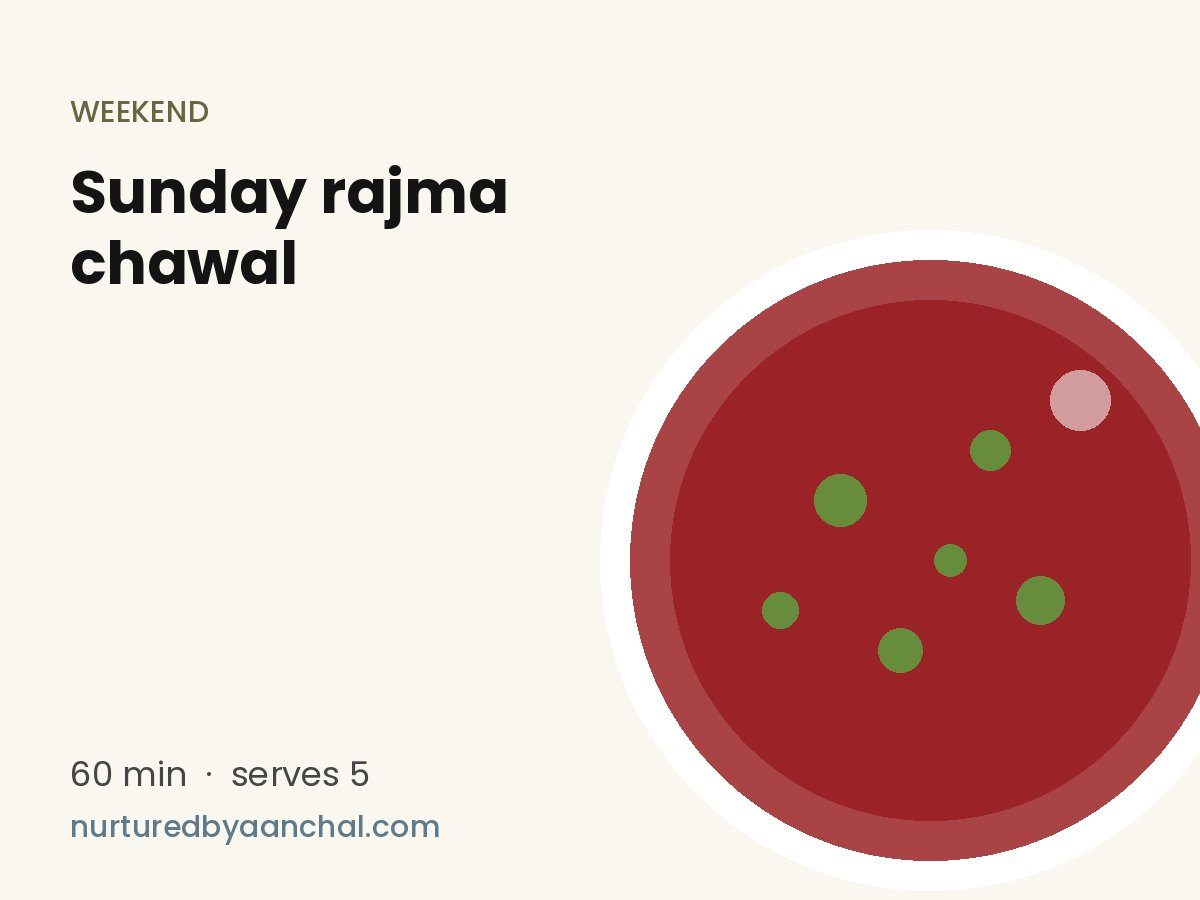
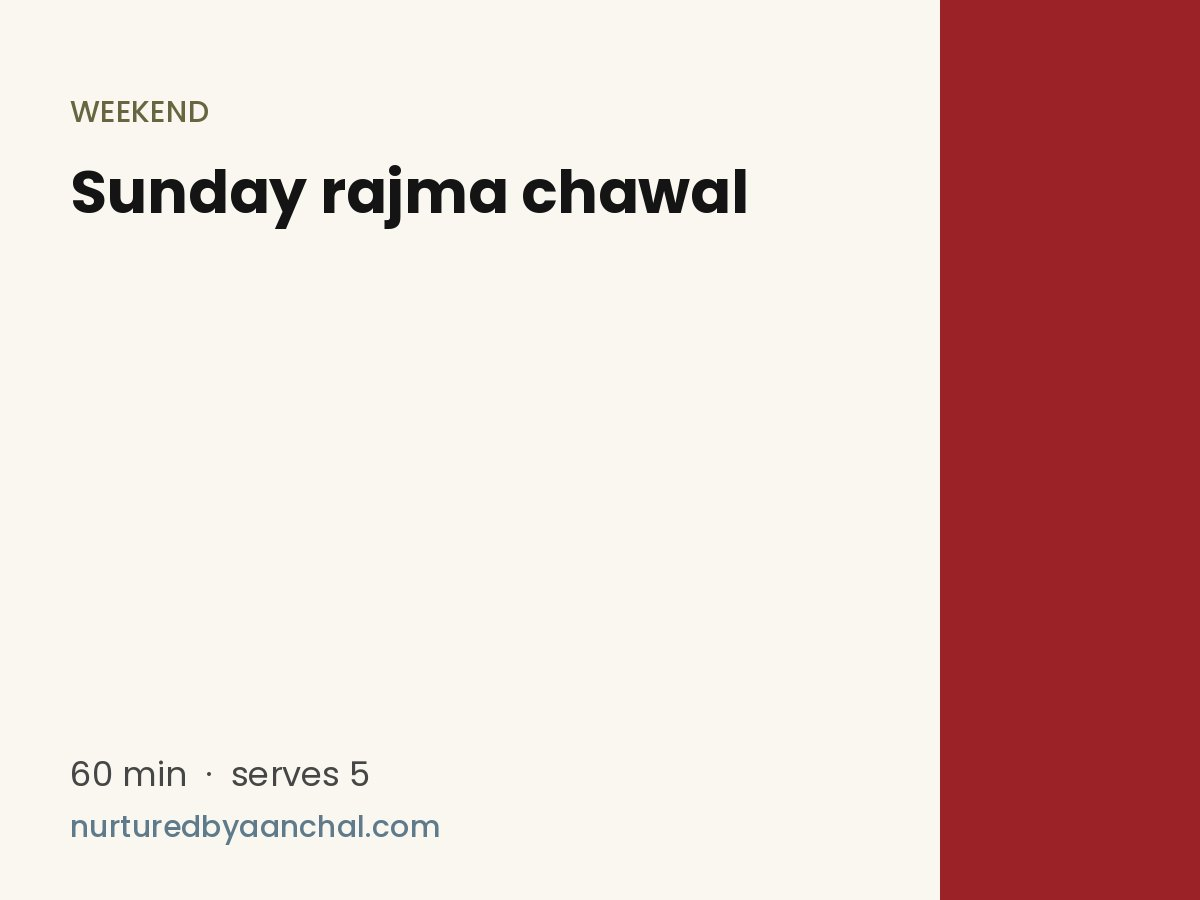
Remove stock photos that showed the wrong dish (paneer bhurji, aloo gobi, besan chilla, rajma); plain title cards until real photos exist
Claude-Session: https://claude.ai/code/session_01GpAf4TjqHsxVsZFDK4pqMq

diff --git a/recipes/index.html b/recipes/index.html
@@ -44,7 +44,7 @@
 <div class="page-title"><div class="wrap"><h1>Recipes</h1><p>The South Asian dinners and toddler meals we actually make after work.</p></div></div>
 <section><div class="wrap">
     <div class="r-intro"><img style="object-position:50% 18%" src="/images/album/lunch.jpg" alt="Aanchal smiling at lunch" loading="lazy"><p>Food in our house is simple, quick and mostly South Asian. These are the dishes I lean on during a busy work week, plus a few my toddler actually eats. When we eat out, it's usually dosa.</p></div>
-    <nav class="chips" aria-label="Recipe categories"><a class="chip" href="#weeknight-dinners">Weeknight dinners</a><a class="chip" href="#toddler-meals">Toddler meals</a><a class="chip" href="#lunchbox">Lunchbox</a><a class="chip" href="#breakfast">Breakfast</a><a class="chip" href="#weekend">Weekend</a></nav><h2 class="r-cat" id="weeknight-dinners">Weeknight dinners</h2><div class="r-grid"><a class="r-card" href="/recipes/weeknight-moong-dal-tadka/"><img src="https://images.unsplash.com/photo-1755090154817-58d9d36ec988?w=1200&h=900&fit=crop&crop=entropy&q=80&auto=format" alt="30-minute moong dal tadka" loading="lazy"><span class="r-meta">30 min · serves 4</span><h3>30-minute moong dal tadka</h3></a><a class="r-card" href="/recipes/easy-chana-masala-instant-pot/"><img src="https://images.unsplash.com/photo-1736680056470-948527554276?w=1200&h=900&fit=crop&crop=entropy&q=80&auto=format" alt="Easy chana masala (stovetop or Instant Pot)" loading="lazy"><span class="r-meta">40 min · serves 4</span><h3>Easy chana masala (stovetop or Instant Pot)</h3></a><a class="r-card" href="/recipes/dry-aloo-gobi-sabzi/"><img src="https://images.unsplash.com/photo-1652545297020-f5e8ad779eb4?w=1200&h=900&fit=crop&crop=entropy&q=80&auto=format" alt="Dry aloo gobi sabzi" loading="lazy"><span class="r-meta">35 min · serves 4</span><h3>Dry aloo gobi sabzi</h3></a></div><h2 class="r-cat" id="toddler-meals">Toddler meals</h2><div class="r-grid"><a class="r-card" href="/recipes/one-pot-vegetable-khichdi-toddler/"><img src="https://images.unsplash.com/photo-1630409351211-d62ab2d24da4?w=1200&h=900&fit=crop&crop=entropy&q=80&auto=format" alt="One-pot vegetable khichdi (toddler-approved)" loading="lazy"><span class="r-meta">35 min · serves 4</span><h3>One-pot vegetable khichdi (toddler-approved)</h3></a><a class="r-card" href="/recipes/mini-besan-chilla-toddler-finger-food/"><img src="https://images.unsplash.com/photo-1533621975016-7c373cdf0a3c?w=1200&h=900&fit=crop&crop=entropy&q=80&auto=format" alt="Mini besan chillas (toddler finger food)" loading="lazy"><span class="r-meta">20 min · serves 3</span><h3>Mini besan chillas (toddler finger food)</h3></a></div><h2 class="r-cat" id="lunchbox">Lunchbox</h2><div class="r-grid"><a class="r-card" href="/recipes/paneer-bhurji-lunchbox-wrap/"><img src="https://images.unsplash.com/photo-1736239093375-34f0a2f33c7d?w=1200&h=900&fit=crop&crop=entropy&q=80&auto=format" alt="Paneer bhurji lunchbox wraps" loading="lazy"><span class="r-meta">15 min · serves 3</span><h3>Paneer bhurji lunchbox wraps</h3></a><a class="r-card" href="/recipes/south-indian-lemon-rice-lunchbox/"><img src="https://images.unsplash.com/photo-1733414717545-1d7031befbcf?w=1200&h=900&fit=crop&crop=entropy&q=80&auto=format" alt="South Indian lemon rice (lunchbox favourite)" loading="lazy"><span class="r-meta">15 min · serves 3</span><h3>South Indian lemon rice (lunchbox favourite)</h3></a></div><h2 class="r-cat" id="breakfast">Breakfast</h2><div class="r-grid"><a class="r-card" href="/recipes/vegetable-upma-breakfast/"><img src="https://images.unsplash.com/photo-1630409349197-b733a524b24e?w=1200&h=900&fit=crop&crop=entropy&q=80&auto=format" alt="10-minute vegetable upma" loading="lazy"><span class="r-meta">17 min · serves 3</span><h3>10-minute vegetable upma</h3></a><a class="r-card" href="/recipes/kanda-poha-15-minute-breakfast/"><img src="https://images.unsplash.com/photo-1789991184412-c29c9dfa2b39?w=1200&h=900&fit=crop&crop=entropy&q=80&auto=format" alt="15-minute kanda poha" loading="lazy"><span class="r-meta">15 min · serves 3</span><h3>15-minute kanda poha</h3></a></div><h2 class="r-cat" id="weekend">Weekend</h2><div class="r-grid"><a class="r-card" href="/recipes/sunday-rajma-chawal/"><img src="https://images.unsplash.com/photo-1668236534990-73c4ed23043c?w=1200&h=900&fit=crop&crop=entropy&q=80&auto=format" alt="Sunday rajma chawal" loading="lazy"><span class="r-meta">60 min · serves 5</span><h3>Sunday rajma chawal</h3></a></div>
+    <nav class="chips" aria-label="Recipe categories"><a class="chip" href="#weeknight-dinners">Weeknight dinners</a><a class="chip" href="#toddler-meals">Toddler meals</a><a class="chip" href="#lunchbox">Lunchbox</a><a class="chip" href="#breakfast">Breakfast</a><a class="chip" href="#weekend">Weekend</a></nav><h2 class="r-cat" id="weeknight-dinners">Weeknight dinners</h2><div class="r-grid"><a class="r-card" href="/recipes/weeknight-moong-dal-tadka/"><img src="https://images.unsplash.com/photo-1755090154817-58d9d36ec988?w=1200&h=900&fit=crop&crop=entropy&q=80&auto=format" alt="30-minute moong dal tadka" loading="lazy"><span class="r-meta">30 min · serves 4</span><h3>30-minute moong dal tadka</h3></a><a class="r-card" href="/recipes/easy-chana-masala-instant-pot/"><img src="https://images.unsplash.com/photo-1736680056470-948527554276?w=1200&h=900&fit=crop&crop=entropy&q=80&auto=format" alt="Easy chana masala (stovetop or Instant Pot)" loading="lazy"><span class="r-meta">40 min · serves 4</span><h3>Easy chana masala (stovetop or Instant Pot)</h3></a><a class="r-card" href="/recipes/dry-aloo-gobi-sabzi/"><img src="/images/recipes/dry-aloo-gobi-sabzi.jpg" alt="Dry aloo gobi sabzi" loading="lazy"><span class="r-meta">35 min · serves 4</span><h3>Dry aloo gobi sabzi</h3></a></div><h2 class="r-cat" id="toddler-meals">Toddler meals</h2><div class="r-grid"><a class="r-card" href="/recipes/one-pot-vegetable-khichdi-toddler/"><img src="https://images.unsplash.com/photo-1630409351211-d62ab2d24da4?w=1200&h=900&fit=crop&crop=entropy&q=80&auto=format" alt="One-pot vegetable khichdi (toddler-approved)" loading="lazy"><span class="r-meta">35 min · serves 4</span><h3>One-pot vegetable khichdi (toddler-approved)</h3></a><a class="r-card" href="/recipes/mini-besan-chilla-toddler-finger-food/"><img src="/images/recipes/mini-besan-chilla-toddler-finger-food.jpg" alt="Mini besan chillas (toddler finger food)" loading="lazy"><span class="r-meta">20 min · serves 3</span><h3>Mini besan chillas (toddler finger food)</h3></a></div><h2 class="r-cat" id="lunchbox">Lunchbox</h2><div class="r-grid"><a class="r-card" href="/recipes/paneer-bhurji-lunchbox-wrap/"><img src="/images/recipes/paneer-bhurji-lunchbox-wrap.jpg" alt="Paneer bhurji lunchbox wraps" loading="lazy"><span class="r-meta">15 min · serves 3</span><h3>Paneer bhurji lunchbox wraps</h3></a><a class="r-card" href="/recipes/south-indian-lemon-rice-lunchbox/"><img src="https://images.unsplash.com/photo-1733414717545-1d7031befbcf?w=1200&h=900&fit=crop&crop=entropy&q=80&auto=format" alt="South Indian lemon rice (lunchbox favourite)" loading="lazy"><span class="r-meta">15 min · serves 3</span><h3>South Indian lemon rice (lunchbox favourite)</h3></a></div><h2 class="r-cat" id="breakfast">Breakfast</h2><div class="r-grid"><a class="r-card" href="/recipes/vegetable-upma-breakfast/"><img src="https://images.unsplash.com/photo-1630409349197-b733a524b24e?w=1200&h=900&fit=crop&crop=entropy&q=80&auto=format" alt="10-minute vegetable upma" loading="lazy"><span class="r-meta">17 min · serves 3</span><h3>10-minute vegetable upma</h3></a><a class="r-card" href="/recipes/kanda-poha-15-minute-breakfast/"><img src="https://images.unsplash.com/photo-1789991184412-c29c9dfa2b39?w=1200&h=900&fit=crop&crop=entropy&q=80&auto=format" alt="15-minute kanda poha" loading="lazy"><span class="r-meta">15 min · serves 3</span><h3>15-minute kanda poha</h3></a></div><h2 class="r-cat" id="weekend">Weekend</h2><div class="r-grid"><a class="r-card" href="/recipes/sunday-rajma-chawal/"><img src="/images/recipes/sunday-rajma-chawal.jpg" alt="Sunday rajma chawal" loading="lazy"><span class="r-meta">60 min · serves 5</span><h3>Sunday rajma chawal</h3></a></div>
     <div class="table-life">
       <h2 class="r-cat" style="margin-top:8px">Real life at our table</h2>
       <p class="tl-sub">Not every night is dal and roti. Here's how we actually eat, toddler and all.</p>

diff --git a/recipes/sunday-rajma-chawal/index.html b/recipes/sunday-rajma-chawal/index.html
@@ -21,9 +21,9 @@
 <link rel="preconnect" href="https://fonts.gstatic.com" crossorigin>
 <link href="https://fonts.googleapis.com/css2?family=Poppins:ital,wght@0,400;0,500;0,600;1,400&display=swap" rel="stylesheet">
 <link rel="stylesheet" href="/assets/site.css?v=044b38ea">
-<script type="application/ld+json">{"@context": "https://schema.org", "@type": "Recipe", "name": "Sunday rajma chawal", "author": {"@type": "Person", "name": "Aanchal Bathija"}, "description": "Slow-simmered kidney beans in an onion-tomato gravy. The weekend comfort meal, with enough left for Monday.", "recipeCuisine": "Indian", "prepTime": "PT15M", "cookTime": "PT45M", "totalTime": "PT60M", "recipeYield": "5 servings", "recipeIngredient": ["1 cup dried rajma (kidney beans), soaked overnight, or 2 cans, drained", "2 tbsp oil or ghee", "1 bay leaf", "1 tsp cumin seeds", "2 onions, finely chopped", "1 tbsp ginger-garlic paste", "3 tomatoes, pur\u00e9ed", "1 tsp coriander powder", "\u00bd tsp turmeric", "1 tsp Kashmiri chilli powder", "1 tsp garam masala", "1\u00bd tsp salt", "3 cups water", "Coriander to serve", "Steamed basmati rice to serve"], "recipeInstructions": [{"@type": "HowToStep", "text": "If using dried rajma, drain the soaked beans and pressure cook with fresh water for 6\u20137 whistles until completely soft. Kidney beans must be fully cooked."}, {"@type": "HowToStep", "text": "Heat oil, add bay leaf and cumin, then onions. Cook for 10\u201312 minutes until deep golden."}, {"@type": "HowToStep", "text": "Add ginger-garlic paste for 1 minute, then tomato pur\u00e9e and dry spices except garam masala. Cook until the oil separates."}, {"@type": "HowToStep", "text": "Add the cooked beans with their liquid (or canned beans and 2 cups water) and salt. Simmer for 20 minutes, mashing a few beans to thicken."}, {"@type": "HowToStep", "text": "Stir in garam masala and coriander. Serve over hot rice."}], "image": ["https://images.unsplash.com/photo-1668236534990-73c4ed23043c?w=1200&h=900&fit=crop&crop=entropy&q=80&auto=format"]}</script>
+<script type="application/ld+json">{"@context": "https://schema.org", "@type": "Recipe", "name": "Sunday rajma chawal", "author": {"@type": "Person", "name": "Aanchal Bathija"}, "description": "Slow-simmered kidney beans in an onion-tomato gravy. The weekend comfort meal, with enough left for Monday.", "recipeCuisine": "Indian", "prepTime": "PT15M", "cookTime": "PT45M", "totalTime": "PT60M", "recipeYield": "5 servings", "recipeIngredient": ["1 cup dried rajma (kidney beans), soaked overnight, or 2 cans, drained", "2 tbsp oil or ghee", "1 bay leaf", "1 tsp cumin seeds", "2 onions, finely chopped", "1 tbsp ginger-garlic paste", "3 tomatoes, pur\u00e9ed", "1 tsp coriander powder", "\u00bd tsp turmeric", "1 tsp Kashmiri chilli powder", "1 tsp garam masala", "1\u00bd tsp salt", "3 cups water", "Coriander to serve", "Steamed basmati rice to serve"], "recipeInstructions": [{"@type": "HowToStep", "text": "If using dried rajma, drain the soaked beans and pressure cook with fresh water for 6\u20137 whistles until completely soft. Kidney beans must be fully cooked."}, {"@type": "HowToStep", "text": "Heat oil, add bay leaf and cumin, then onions. Cook for 10\u201312 minutes until deep golden."}, {"@type": "HowToStep", "text": "Add ginger-garlic paste for 1 minute, then tomato pur\u00e9e and dry spices except garam masala. Cook until the oil separates."}, {"@type": "HowToStep", "text": "Add the cooked beans with their liquid (or canned beans and 2 cups water) and salt. Simmer for 20 minutes, mashing a few beans to thicken."}, {"@type": "HowToStep", "text": "Stir in garam masala and coriander. Serve over hot rice."}], "image": ["https://nurturedbyaanchal.com/images/recipes/sunday-rajma-chawal.jpg"]}</script>
 <script type="application/ld+json">{"@context": "https://schema.org", "@type": "FAQPage", "mainEntity": [{"@type": "Question", "name": "Why is my rajma still hard?", "acceptedAnswer": {"@type": "Answer", "text": "The beans may be old, or weren't soaked long enough. Keep pressure cooking in 5-minute rounds until soft."}}, {"@type": "Question", "name": "Is undercooked rajma safe?", "acceptedAnswer": {"@type": "Answer", "text": "No. Raw or undercooked kidney beans can make you sick. Always cook them until fully soft."}}, {"@type": "Question", "name": "Can I freeze rajma?", "acceptedAnswer": {"@type": "Answer", "text": "Yes. It freezes well for up to 3 months."}}]}</script>
-<meta property="og:image" content="https://images.unsplash.com/photo-1668236534990-73c4ed23043c?w=1200&h=900&fit=crop&crop=entropy&q=80&auto=format">
+<meta property="og:image" content="https://nurturedbyaanchal.com/images/recipes/sunday-rajma-chawal.jpg">
 </head>
 <body>
 <header class="site-header">
@@ -47,7 +47,7 @@
 <section><div class="wrap prose post rp">
     <p class="meta-line">By Aanchal Bathija · Weekend · 60 min · serves 5</p>
     <p class="jump"><a class="btn" href="#recipe">Jump to recipe</a> <button class="btn btn-ghost-dark" onclick="window.print()">Print recipe</button></p>
-    <figure class="post-img"><img src="https://images.unsplash.com/photo-1668236534990-73c4ed23043c?w=1200&h=900&fit=crop&crop=entropy&q=80&auto=format" alt="Sunday rajma chawal"><figcaption class="credit">Photo via Unsplash</figcaption></figure>
+    <figure class="post-img"><img src="/images/recipes/sunday-rajma-chawal.jpg" alt="Sunday rajma chawal"></figure>
     
     <nav class="rp-toc" aria-label="On this page"><strong>On this page</strong><ul><li><a href="#about">What is it</a></li><li><a href="#ingredients">Ingredients &amp; substitutes</a></li><li><a href="#how">How to make it</a></li><li><a href="#tips">Expert tips</a></li><li><a href="#faqs">FAQs</a></li><li><a href="#recipe">Recipe card</a></li></ul></nav>
     <h2 id="about">What is rajma chawal?</h2><p>Rajma chawal is red kidney beans simmered in a thick onion-tomato gravy, served over rice. It&#x27;s the Sunday lunch of many North Indian homes, the kind of meal that makes the whole house smell good.</p>

diff --git a/recipes/paneer-bhurji-lunchbox-wrap/index.html b/recipes/paneer-bhurji-lunchbox-wrap/index.html
@@ -21,9 +21,9 @@
 <link rel="preconnect" href="https://fonts.gstatic.com" crossorigin>
 <link href="https://fonts.googleapis.com/css2?family=Poppins:ital,wght@0,400;0,500;0,600;1,400&display=swap" rel="stylesheet">
 <link rel="stylesheet" href="/assets/site.css?v=044b38ea">
-<script type="application/ld+json">{"@context": "https://schema.org", "@type": "Recipe", "name": "Paneer bhurji lunchbox wraps", "author": {"@type": "Person", "name": "Aanchal Bathija"}, "description": "Scrambled spiced paneer rolled into a roti. Ready in 15 minutes and travels well in a lunchbox.", "recipeCuisine": "Indian", "prepTime": "PT5M", "cookTime": "PT10M", "totalTime": "PT15M", "recipeYield": "3 servings", "recipeIngredient": ["200 g paneer, crumbled", "1 tbsp oil or butter", "\u00bd tsp cumin seeds", "1 small onion, finely chopped", "1 small tomato, finely chopped", "\u00bc cup finely chopped capsicum (bell pepper)", "\u00bc tsp turmeric", "\u00bd tsp chilli powder", "\u00bd tsp salt", "\u00bc tsp garam masala", "Coriander, chopped", "3 rotis or tortillas", "Green chutney or ketchup (optional)"], "recipeInstructions": [{"@type": "HowToStep", "text": "Heat oil in a pan. Add cumin, then onion, and cook for 3 minutes."}, {"@type": "HowToStep", "text": "Add tomato and capsicum and cook until soft."}, {"@type": "HowToStep", "text": "Add turmeric, chilli powder and salt, then the crumbled paneer. Stir for 2\u20133 minutes. Don't overcook or the paneer gets rubbery."}, {"@type": "HowToStep", "text": "Finish with garam masala and coriander."}, {"@type": "HowToStep", "text": "Warm the rotis, spread a little chutney, add the bhurji and roll up tightly. Wrap in foil for the lunchbox."}], "image": ["https://images.unsplash.com/photo-1736239093375-34f0a2f33c7d?w=1200&h=900&fit=crop&crop=entropy&q=80&auto=format"]}</script>
+<script type="application/ld+json">{"@context": "https://schema.org", "@type": "Recipe", "name": "Paneer bhurji lunchbox wraps", "author": {"@type": "Person", "name": "Aanchal Bathija"}, "description": "Scrambled spiced paneer rolled into a roti. Ready in 15 minutes and travels well in a lunchbox.", "recipeCuisine": "Indian", "prepTime": "PT5M", "cookTime": "PT10M", "totalTime": "PT15M", "recipeYield": "3 servings", "recipeIngredient": ["200 g paneer, crumbled", "1 tbsp oil or butter", "\u00bd tsp cumin seeds", "1 small onion, finely chopped", "1 small tomato, finely chopped", "\u00bc cup finely chopped capsicum (bell pepper)", "\u00bc tsp turmeric", "\u00bd tsp chilli powder", "\u00bd tsp salt", "\u00bc tsp garam masala", "Coriander, chopped", "3 rotis or tortillas", "Green chutney or ketchup (optional)"], "recipeInstructions": [{"@type": "HowToStep", "text": "Heat oil in a pan. Add cumin, then onion, and cook for 3 minutes."}, {"@type": "HowToStep", "text": "Add tomato and capsicum and cook until soft."}, {"@type": "HowToStep", "text": "Add turmeric, chilli powder and salt, then the crumbled paneer. Stir for 2\u20133 minutes. Don't overcook or the paneer gets rubbery."}, {"@type": "HowToStep", "text": "Finish with garam masala and coriander."}, {"@type": "HowToStep", "text": "Warm the rotis, spread a little chutney, add the bhurji and roll up tightly. Wrap in foil for the lunchbox."}], "image": ["https://nurturedbyaanchal.com/images/recipes/paneer-bhurji-lunchbox-wrap.jpg"]}</script>
 <script type="application/ld+json">{"@context": "https://schema.org", "@type": "FAQPage", "mainEntity": [{"@type": "Question", "name": "Can I make the filling ahead?", "acceptedAnswer": {"@type": "Answer", "text": "Yes. It keeps 2 days in the fridge. Warm it gently before wrapping."}}, {"@type": "Question", "name": "Is homemade paneer better?", "acceptedAnswer": {"@type": "Answer", "text": "It's softer, but store-bought works well. Soak it in hot water for 10 minutes first to soften it."}}, {"@type": "Question", "name": "Is it toddler-friendly?", "acceptedAnswer": {"@type": "Answer", "text": "Yes, with the green chilli left out. Serve the bhurji on its own or in small pieces of roti."}}]}</script>
-<meta property="og:image" content="https://images.unsplash.com/photo-1736239093375-34f0a2f33c7d?w=1200&h=900&fit=crop&crop=entropy&q=80&auto=format">
+<meta property="og:image" content="https://nurturedbyaanchal.com/images/recipes/paneer-bhurji-lunchbox-wrap.jpg">
 </head>
 <body>
 <header class="site-header">
@@ -47,7 +47,7 @@
 <section><div class="wrap prose post rp">
     <p class="meta-line">By Aanchal Bathija · Lunchbox · 15 min · serves 3</p>
     <p class="jump"><a class="btn" href="#recipe">Jump to recipe</a> <button class="btn btn-ghost-dark" onclick="window.print()">Print recipe</button></p>
-    <figure class="post-img"><img src="https://images.unsplash.com/photo-1736239093375-34f0a2f33c7d?w=1200&h=900&fit=crop&crop=entropy&q=80&auto=format" alt="Paneer bhurji lunchbox wraps"><figcaption class="credit">Photo via Unsplash</figcaption></figure>
+    <figure class="post-img"><img src="/images/recipes/paneer-bhurji-lunchbox-wrap.jpg" alt="Paneer bhurji lunchbox wraps"></figure>
     
     <nav class="rp-toc" aria-label="On this page"><strong>On this page</strong><ul><li><a href="#about">What is it</a></li><li><a href="#ingredients">Ingredients &amp; substitutes</a></li><li><a href="#how">How to make it</a></li><li><a href="#tips">Expert tips</a></li><li><a href="#faqs">FAQs</a></li><li><a href="#recipe">Recipe card</a></li></ul></nav>
     <h2 id="about">What is paneer bhurji?</h2><p>Paneer bhurji is crumbled paneer cooked with onion, tomato and mild spices, a vegetarian cousin of scrambled eggs. Rolled in a roti, it&#x27;s the fastest high-protein lunch I make.</p>

diff --git a/recipes/mini-besan-chilla-toddler-finger-food/index.html b/recipes/mini-besan-chilla-toddler-finger-food/index.html
@@ -21,9 +21,9 @@
 <link rel="preconnect" href="https://fonts.gstatic.com" crossorigin>
 <link href="https://fonts.googleapis.com/css2?family=Poppins:ital,wght@0,400;0,500;0,600;1,400&display=swap" rel="stylesheet">
 <link rel="stylesheet" href="/assets/site.css?v=044b38ea">
-<script type="application/ld+json">{"@context": "https://schema.org", "@type": "Recipe", "name": "Mini besan chillas (toddler finger food)", "author": {"@type": "Person", "name": "Aanchal Bathija"}, "description": "Small savoury chickpea-flour pancakes with grated veg. Soft, easy to hold, and great for little hands.", "recipeCuisine": "Indian", "prepTime": "PT5M", "cookTime": "PT15M", "totalTime": "PT20M", "recipeYield": "3 servings", "recipeIngredient": ["1 cup besan (chickpea flour)", "\u00be cup water (approx.)", "\u00bc cup grated carrot", "\u00bc cup finely chopped spinach", "2 tbsp finely chopped onion (optional)", "\u00bc tsp turmeric", "\u00bc tsp ajwain (carom seeds)", "Pinch of salt", "Oil or ghee for the pan"], "recipeInstructions": [{"@type": "HowToStep", "text": "Whisk the besan with water to a smooth pouring batter, like pancake batter."}, {"@type": "HowToStep", "text": "Stir in the vegetables, turmeric, ajwain and salt. Rest for 5 minutes."}, {"@type": "HowToStep", "text": "Heat a non-stick pan and brush with a little oil."}, {"@type": "HowToStep", "text": "Pour small spoonfuls of batter (about 3 inches across) and cook for 2 minutes until the edges lift."}, {"@type": "HowToStep", "text": "Flip and cook another 1\u20132 minutes until golden. Serve warm with yogurt."}], "image": ["https://images.unsplash.com/photo-1533621975016-7c373cdf0a3c?w=1200&h=900&fit=crop&crop=entropy&q=80&auto=format"]}</script>
+<script type="application/ld+json">{"@context": "https://schema.org", "@type": "Recipe", "name": "Mini besan chillas (toddler finger food)", "author": {"@type": "Person", "name": "Aanchal Bathija"}, "description": "Small savoury chickpea-flour pancakes with grated veg. Soft, easy to hold, and great for little hands.", "recipeCuisine": "Indian", "prepTime": "PT5M", "cookTime": "PT15M", "totalTime": "PT20M", "recipeYield": "3 servings", "recipeIngredient": ["1 cup besan (chickpea flour)", "\u00be cup water (approx.)", "\u00bc cup grated carrot", "\u00bc cup finely chopped spinach", "2 tbsp finely chopped onion (optional)", "\u00bc tsp turmeric", "\u00bc tsp ajwain (carom seeds)", "Pinch of salt", "Oil or ghee for the pan"], "recipeInstructions": [{"@type": "HowToStep", "text": "Whisk the besan with water to a smooth pouring batter, like pancake batter."}, {"@type": "HowToStep", "text": "Stir in the vegetables, turmeric, ajwain and salt. Rest for 5 minutes."}, {"@type": "HowToStep", "text": "Heat a non-stick pan and brush with a little oil."}, {"@type": "HowToStep", "text": "Pour small spoonfuls of batter (about 3 inches across) and cook for 2 minutes until the edges lift."}, {"@type": "HowToStep", "text": "Flip and cook another 1\u20132 minutes until golden. Serve warm with yogurt."}], "image": ["https://nurturedbyaanchal.com/images/recipes/mini-besan-chilla-toddler-finger-food.jpg"]}</script>
 <script type="application/ld+json">{"@context": "https://schema.org", "@type": "FAQPage", "mainEntity": [{"@type": "Question", "name": "Can I make the batter ahead?", "acceptedAnswer": {"@type": "Answer", "text": "Yes. It keeps a day in the fridge. Stir and add a splash of water before cooking."}}, {"@type": "Question", "name": "Why do my chillas break?", "acceptedAnswer": {"@type": "Answer", "text": "The batter is too thin or the pan isn't hot enough. Add a spoon of besan and wait for the pan to heat."}}, {"@type": "Question", "name": "Can I freeze them?", "acceptedAnswer": {"@type": "Answer", "text": "Yes. Freeze cooked chillas with parchment between them and reheat in a pan."}}]}</script>
-<meta property="og:image" content="https://images.unsplash.com/photo-1533621975016-7c373cdf0a3c?w=1200&h=900&fit=crop&crop=entropy&q=80&auto=format">
+<meta property="og:image" content="https://nurturedbyaanchal.com/images/recipes/mini-besan-chilla-toddler-finger-food.jpg">
 </head>
 <body>
 <header class="site-header">
@@ -47,7 +47,7 @@
 <section><div class="wrap prose post rp">
     <p class="meta-line">By Aanchal Bathija · Toddler meals · 20 min · serves 3</p>
     <p class="jump"><a class="btn" href="#recipe">Jump to recipe</a> <button class="btn btn-ghost-dark" onclick="window.print()">Print recipe</button></p>
-    <figure class="post-img"><img src="https://images.unsplash.com/photo-1533621975016-7c373cdf0a3c?w=1200&h=900&fit=crop&crop=entropy&q=80&auto=format" alt="Mini besan chillas (toddler finger food)"><figcaption class="credit">Photo via Unsplash</figcaption></figure>
+    <figure class="post-img"><img src="/images/recipes/mini-besan-chilla-toddler-finger-food.jpg" alt="Mini besan chillas (toddler finger food)"></figure>
     
     <nav class="rp-toc" aria-label="On this page"><strong>On this page</strong><ul><li><a href="#about">What is it</a></li><li><a href="#ingredients">Ingredients &amp; substitutes</a></li><li><a href="#how">How to make it</a></li><li><a href="#tips">Expert tips</a></li><li><a href="#faqs">FAQs</a></li><li><a href="#recipe">Recipe card</a></li></ul></nav>
     <h2 id="about">What is besan chilla?</h2><p>Besan chilla is a savoury pancake made from chickpea flour batter, often called a vegetarian omelette. Made small, they&#x27;re perfect toddler finger food and a quick breakfast for the rest of us.</p>

diff --git a/recipes/dry-aloo-gobi-sabzi/index.html b/recipes/dry-aloo-gobi-sabzi/index.html
@@ -21,9 +21,9 @@
 <link rel="preconnect" href="https://fonts.gstatic.com" crossorigin>
 <link href="https://fonts.googleapis.com/css2?family=Poppins:ital,wght@0,400;0,500;0,600;1,400&display=swap" rel="stylesheet">
 <link rel="stylesheet" href="/assets/site.css?v=044b38ea">
-<script type="application/ld+json">{"@context": "https://schema.org", "@type": "Recipe", "name": "Dry aloo gobi sabzi", "author": {"@type": "Person", "name": "Aanchal Bathija"}, "description": "Potato and cauliflower with simple spices. Goes with roti, dal-rice, or straight into a lunchbox.", "recipeCuisine": "Indian", "prepTime": "PT10M", "cookTime": "PT25M", "totalTime": "PT35M", "recipeYield": "4 servings", "recipeIngredient": ["1 medium cauliflower, cut into small florets", "2 medium potatoes, cubed", "2 tbsp oil", "1 tsp cumin seeds", "1 green chilli, slit (optional)", "1 tsp grated ginger", "\u00bd tsp turmeric", "1 tsp coriander powder", "\u00bd tsp chilli powder", "1 tsp salt", "\u00bd tsp garam masala", "Coriander to finish"], "recipeInstructions": [{"@type": "HowToStep", "text": "Heat oil in a wide pan. Add cumin, green chilli and ginger."}, {"@type": "HowToStep", "text": "Add potatoes and cook for 5 minutes, stirring."}, {"@type": "HowToStep", "text": "Add cauliflower, turmeric, coriander powder, chilli powder and salt. Toss well."}, {"@type": "HowToStep", "text": "Cook uncovered on medium-high for 5 minutes for a little colour, then cover and cook on low for 12\u201315 minutes, stirring once or twice, until tender."}, {"@type": "HowToStep", "text": "Sprinkle garam masala and coriander. Serve hot."}], "image": ["https://images.unsplash.com/photo-1652545297020-f5e8ad779eb4?w=1200&h=900&fit=crop&crop=entropy&q=80&auto=format"]}</script>
+<script type="application/ld+json">{"@context": "https://schema.org", "@type": "Recipe", "name": "Dry aloo gobi sabzi", "author": {"@type": "Person", "name": "Aanchal Bathija"}, "description": "Potato and cauliflower with simple spices. Goes with roti, dal-rice, or straight into a lunchbox.", "recipeCuisine": "Indian", "prepTime": "PT10M", "cookTime": "PT25M", "totalTime": "PT35M", "recipeYield": "4 servings", "recipeIngredient": ["1 medium cauliflower, cut into small florets", "2 medium potatoes, cubed", "2 tbsp oil", "1 tsp cumin seeds", "1 green chilli, slit (optional)", "1 tsp grated ginger", "\u00bd tsp turmeric", "1 tsp coriander powder", "\u00bd tsp chilli powder", "1 tsp salt", "\u00bd tsp garam masala", "Coriander to finish"], "recipeInstructions": [{"@type": "HowToStep", "text": "Heat oil in a wide pan. Add cumin, green chilli and ginger."}, {"@type": "HowToStep", "text": "Add potatoes and cook for 5 minutes, stirring."}, {"@type": "HowToStep", "text": "Add cauliflower, turmeric, coriander powder, chilli powder and salt. Toss well."}, {"@type": "HowToStep", "text": "Cook uncovered on medium-high for 5 minutes for a little colour, then cover and cook on low for 12\u201315 minutes, stirring once or twice, until tender."}, {"@type": "HowToStep", "text": "Sprinkle garam masala and coriander. Serve hot."}], "image": ["https://nurturedbyaanchal.com/images/recipes/dry-aloo-gobi-sabzi.jpg"]}</script>
 <script type="application/ld+json">{"@context": "https://schema.org", "@type": "FAQPage", "mainEntity": [{"@type": "Question", "name": "Why is my aloo gobi mushy?", "acceptedAnswer": {"@type": "Answer", "text": "Too much stirring or too much moisture. Dry the florets and stir only every few minutes."}}, {"@type": "Question", "name": "Can I bake it?", "acceptedAnswer": {"@type": "Answer", "text": "Yes. Toss everything with oil and spices and roast at 220\u00b0C (425\u00b0F) for 25\u201330 minutes, flipping once."}}, {"@type": "Question", "name": "Is it good for lunchboxes?", "acceptedAnswer": {"@type": "Answer", "text": "Yes. It holds well at room temperature and is easy to wrap in a roti."}}]}</script>
-<meta property="og:image" content="https://images.unsplash.com/photo-1652545297020-f5e8ad779eb4?w=1200&h=900&fit=crop&crop=entropy&q=80&auto=format">
+<meta property="og:image" content="https://nurturedbyaanchal.com/images/recipes/dry-aloo-gobi-sabzi.jpg">
 </head>
 <body>
 <header class="site-header">
@@ -47,7 +47,7 @@
 <section><div class="wrap prose post rp">
     <p class="meta-line">By Aanchal Bathija · Weeknight dinners · 35 min · serves 4</p>
     <p class="jump"><a class="btn" href="#recipe">Jump to recipe</a> <button class="btn btn-ghost-dark" onclick="window.print()">Print recipe</button></p>
-    <figure class="post-img"><img src="https://images.unsplash.com/photo-1652545297020-f5e8ad779eb4?w=1200&h=900&fit=crop&crop=entropy&q=80&auto=format" alt="Dry aloo gobi sabzi"><figcaption class="credit">Photo via Unsplash</figcaption></figure>
+    <figure class="post-img"><img src="/images/recipes/dry-aloo-gobi-sabzi.jpg" alt="Dry aloo gobi sabzi"></figure>
     
     <nav class="rp-toc" aria-label="On this page"><strong>On this page</strong><ul><li><a href="#about">What is it</a></li><li><a href="#ingredients">Ingredients &amp; substitutes</a></li><li><a href="#how">How to make it</a></li><li><a href="#tips">Expert tips</a></li><li><a href="#faqs">FAQs</a></li><li><a href="#recipe">Recipe card</a></li></ul></nav>
     <h2 id="about">What is aloo gobi?</h2><p>Aloo gobi is a dry stir-fry of potatoes and cauliflower with turmeric, cumin and a little ginger. It&#x27;s one of the most common sabzis in Indian homes, and it packs well into lunchboxes.</p>

diff --git a/index.html b/index.html
@@ -126,7 +126,7 @@
       <div class="reveal"><img style="object-position:50% 12%" class="k-photo" src="/images/album/eat-pizza.jpg" alt="Aanchal smiling over pizza night" loading="lazy"></div>
       <div class="reveal"><h2>And yes, we still have to eat.</h2><p>Quick South Asian weeknight dinners and toddler meals that survive real life.</p><a class="btn" href="/recipes/">See the recipes</a></div>
     </div>
-    <div class="r-grid" style="margin-top:44px"><a class="r-card" href="/recipes/weeknight-moong-dal-tadka/"><img src="https://images.unsplash.com/photo-1755090154817-58d9d36ec988?w=1200&h=900&fit=crop&crop=entropy&q=80&auto=format" alt="30-minute moong dal tadka" loading="lazy"><span class="r-meta">30 min · Weeknight dinners</span><h3>30-minute moong dal tadka</h3></a><a class="r-card" href="/recipes/one-pot-vegetable-khichdi-toddler/"><img src="https://images.unsplash.com/photo-1630409351211-d62ab2d24da4?w=1200&h=900&fit=crop&crop=entropy&q=80&auto=format" alt="One-pot vegetable khichdi (toddler-approved)" loading="lazy"><span class="r-meta">35 min · Toddler meals</span><h3>One-pot vegetable khichdi (toddler-approved)</h3></a><a class="r-card" href="/recipes/easy-chana-masala-instant-pot/"><img src="https://images.unsplash.com/photo-1736680056470-948527554276?w=1200&h=900&fit=crop&crop=entropy&q=80&auto=format" alt="Easy chana masala (stovetop or Instant Pot)" loading="lazy"><span class="r-meta">40 min · Weeknight dinners</span><h3>Easy chana masala (stovetop or Instant Pot)</h3></a><a class="r-card" href="/recipes/dry-aloo-gobi-sabzi/"><img src="https://images.unsplash.com/photo-1652545297020-f5e8ad779eb4?w=1200&h=900&fit=crop&crop=entropy&q=80&auto=format" alt="Dry aloo gobi sabzi" loading="lazy"><span class="r-meta">35 min · Weeknight dinners</span><h3>Dry aloo gobi sabzi</h3></a></div>
+    <div class="r-grid" style="margin-top:44px"><a class="r-card" href="/recipes/weeknight-moong-dal-tadka/"><img src="https://images.unsplash.com/photo-1755090154817-58d9d36ec988?w=1200&h=900&fit=crop&crop=entropy&q=80&auto=format" alt="30-minute moong dal tadka" loading="lazy"><span class="r-meta">30 min · Weeknight dinners</span><h3>30-minute moong dal tadka</h3></a><a class="r-card" href="/recipes/one-pot-vegetable-khichdi-toddler/"><img src="https://images.unsplash.com/photo-1630409351211-d62ab2d24da4?w=1200&h=900&fit=crop&crop=entropy&q=80&auto=format" alt="One-pot vegetable khichdi (toddler-approved)" loading="lazy"><span class="r-meta">35 min · Toddler meals</span><h3>One-pot vegetable khichdi (toddler-approved)</h3></a><a class="r-card" href="/recipes/easy-chana-masala-instant-pot/"><img src="https://images.unsplash.com/photo-1736680056470-948527554276?w=1200&h=900&fit=crop&crop=entropy&q=80&auto=format" alt="Easy chana masala (stovetop or Instant Pot)" loading="lazy"><span class="r-meta">40 min · Weeknight dinners</span><h3>Easy chana masala (stovetop or Instant Pot)</h3></a><a class="r-card" href="/recipes/dry-aloo-gobi-sabzi/"><img src="/images/recipes/dry-aloo-gobi-sabzi.jpg" alt="Dry aloo gobi sabzi" loading="lazy"><span class="r-meta">35 min · Weeknight dinners</span><h3>Dry aloo gobi sabzi</h3></a></div>
   </div>
 </section>
 

diff --git a/recipes/weeknight-moong-dal-tadka/index.html b/recipes/weeknight-moong-dal-tadka/index.html
@@ -70,7 +70,7 @@
       <button class="btn btn-ghost-dark print-btn" onclick="window.print()">Print recipe</button>
     </div>
     <h2>More recipes you'll like</h2>
-  </div><div class="wrap"><div class="r-grid"><a class="r-card" href="/recipes/easy-chana-masala-instant-pot/"><img src="https://images.unsplash.com/photo-1736680056470-948527554276?w=1200&h=900&fit=crop&crop=entropy&q=80&auto=format" alt="Easy chana masala (stovetop or Instant Pot)" loading="lazy"><span class="r-meta">40 min</span><h3>Easy chana masala (stovetop or Instant Pot)</h3></a><a class="r-card" href="/recipes/dry-aloo-gobi-sabzi/"><img src="https://images.unsplash.com/photo-1652545297020-f5e8ad779eb4?w=1200&h=900&fit=crop&crop=entropy&q=80&auto=format" alt="Dry aloo gobi sabzi" loading="lazy"><span class="r-meta">35 min</span><h3>Dry aloo gobi sabzi</h3></a></div></div></section>
+  </div><div class="wrap"><div class="r-grid"><a class="r-card" href="/recipes/easy-chana-masala-instant-pot/"><img src="https://images.unsplash.com/photo-1736680056470-948527554276?w=1200&h=900&fit=crop&crop=entropy&q=80&auto=format" alt="Easy chana masala (stovetop or Instant Pot)" loading="lazy"><span class="r-meta">40 min</span><h3>Easy chana masala (stovetop or Instant Pot)</h3></a><a class="r-card" href="/recipes/dry-aloo-gobi-sabzi/"><img src="/images/recipes/dry-aloo-gobi-sabzi.jpg" alt="Dry aloo gobi sabzi" loading="lazy"><span class="r-meta">35 min</span><h3>Dry aloo gobi sabzi</h3></a></div></div></section>
 <section class="news" id="newsletter">
   <div class="wrap">
     <h2>Get the good stuff</h2>

diff --git a/recipes/easy-chana-masala-instant-pot/index.html b/recipes/easy-chana-masala-instant-pot/index.html
@@ -70,7 +70,7 @@
       <button class="btn btn-ghost-dark print-btn" onclick="window.print()">Print recipe</button>
     </div>
     <h2>More recipes you'll like</h2>
-  </div><div class="wrap"><div class="r-grid"><a class="r-card" href="/recipes/weeknight-moong-dal-tadka/"><img src="https://images.unsplash.com/photo-1755090154817-58d9d36ec988?w=1200&h=900&fit=crop&crop=entropy&q=80&auto=format" alt="30-minute moong dal tadka" loading="lazy"><span class="r-meta">30 min</span><h3>30-minute moong dal tadka</h3></a><a class="r-card" href="/recipes/dry-aloo-gobi-sabzi/"><img src="https://images.unsplash.com/photo-1652545297020-f5e8ad779eb4?w=1200&h=900&fit=crop&crop=entropy&q=80&auto=format" alt="Dry aloo gobi sabzi" loading="lazy"><span class="r-meta">35 min</span><h3>Dry aloo gobi sabzi</h3></a></div></div></section>
+  </div><div class="wrap"><div class="r-grid"><a class="r-card" href="/recipes/weeknight-moong-dal-tadka/"><img src="https://images.unsplash.com/photo-1755090154817-58d9d36ec988?w=1200&h=900&fit=crop&crop=entropy&q=80&auto=format" alt="30-minute moong dal tadka" loading="lazy"><span class="r-meta">30 min</span><h3>30-minute moong dal tadka</h3></a><a class="r-card" href="/recipes/dry-aloo-gobi-sabzi/"><img src="/images/recipes/dry-aloo-gobi-sabzi.jpg" alt="Dry aloo gobi sabzi" loading="lazy"><span class="r-meta">35 min</span><h3>Dry aloo gobi sabzi</h3></a></div></div></section>
 <section class="news" id="newsletter">
   <div class="wrap">
     <h2>Get the good stuff</h2>

diff --git a/recipes/one-pot-vegetable-khichdi-toddler/index.html b/recipes/one-pot-vegetable-khichdi-toddler/index.html
@@ -70,7 +70,7 @@
       <button class="btn btn-ghost-dark print-btn" onclick="window.print()">Print recipe</button>
     </div>
     <h2>More recipes you'll like</h2>
-  </div><div class="wrap"><div class="r-grid"><a class="r-card" href="/recipes/mini-besan-chilla-toddler-finger-food/"><img src="https://images.unsplash.com/photo-1533621975016-7c373cdf0a3c?w=1200&h=900&fit=crop&crop=entropy&q=80&auto=format" alt="Mini besan chillas (toddler finger food)" loading="lazy"><span class="r-meta">20 min</span><h3>Mini besan chillas (toddler finger food)</h3></a></div></div></section>
+  </div><div class="wrap"><div class="r-grid"><a class="r-card" href="/recipes/mini-besan-chilla-toddler-finger-food/"><img src="/images/recipes/mini-besan-chilla-toddler-finger-food.jpg" alt="Mini besan chillas (toddler finger food)" loading="lazy"><span class="r-meta">20 min</span><h3>Mini besan chillas (toddler finger food)</h3></a></div></div></section>
 <section class="news" id="newsletter">
   <div class="wrap">
     <h2>Get the good stuff</h2>

diff --git a/recipes/south-indian-lemon-rice-lunchbox/index.html b/recipes/south-indian-lemon-rice-lunchbox/index.html
@@ -70,7 +70,7 @@
       <button class="btn btn-ghost-dark print-btn" onclick="window.print()">Print recipe</button>
     </div>
     <h2>More recipes you'll like</h2>
-  </div><div class="wrap"><div class="r-grid"><a class="r-card" href="/recipes/paneer-bhurji-lunchbox-wrap/"><img src="https://images.unsplash.com/photo-1736239093375-34f0a2f33c7d?w=1200&h=900&fit=crop&crop=entropy&q=80&auto=format" alt="Paneer bhurji lunchbox wraps" loading="lazy"><span class="r-meta">15 min</span><h3>Paneer bhurji lunchbox wraps</h3></a></div></div></section>
+  </div><div class="wrap"><div class="r-grid"><a class="r-card" href="/recipes/paneer-bhurji-lunchbox-wrap/"><img src="/images/recipes/paneer-bhurji-lunchbox-wrap.jpg" alt="Paneer bhurji lunchbox wraps" loading="lazy"><span class="r-meta">15 min</span><h3>Paneer bhurji lunchbox wraps</h3></a></div></div></section>
 <section class="news" id="newsletter">
   <div class="wrap">
     <h2>Get the good stuff</h2>

diff --git a/_tools/photos.py b/_tools/photos.py
@@ -1,1 +1,1 @@
-RECIPE_PHOTOS = {'weeknight-moong-dal-tadka': 'https://images.unsplash.com/photo-1755090154817-58d9d36ec988', 'one-pot-vegetable-khichdi-toddler': 'https://images.unsplash.com/photo-1630409351211-d62ab2d24da4', 'easy-chana-masala-instant-pot': 'https://images.unsplash.com/photo-1736680056470-948527554276', 'dry-aloo-gobi-sabzi': 'https://images.unsplash.com/photo-1652545297020-f5e8ad779eb4', 'paneer-bhurji-lunchbox-wrap': 'https://images.unsplash.com/photo-1736239093375-34f0a2f33c7d', 'vegetable-upma-breakfast': 'https://images.unsplash.com/photo-1630409349197-b733a524b24e', 'mini-besan-chilla-toddler-finger-food': 'https://images.unsplash.com/photo-1533621975016-7c373cdf0a3c', 'sunday-rajma-chawal': 'https://images.unsplash.com/photo-1668236534990-73c4ed23043c', 'kanda-poha-15-minute-breakfast': 'https://images.unsplash.com/photo-1789991184412-c29c9dfa2b39', 'south-indian-lemon-rice-lunchbox': 'https://images.unsplash.com/photo-1733414717545-1d7031befbcf'}
+RECIPE_PHOTOS = {'weeknight-moong-dal-tadka': 'https://images.unsplash.com/photo-1755090154817-58d9d36ec988', 'one-pot-vegetable-khichdi-toddler': 'https://images.unsplash.com/photo-1630409351211-d62ab2d24da4', 'easy-chana-masala-instant-pot': 'https://images.unsplash.com/photo-1736680056470-948527554276', 'vegetable-upma-breakfast': 'https://images.unsplash.com/photo-1630409349197-b733a524b24e', 'kanda-poha-15-minute-breakfast': 'https://images.unsplash.com/photo-1789991184412-c29c9dfa2b39', 'south-indian-lemon-rice-lunchbox': 'https://images.unsplash.com/photo-1733414717545-1d7031befbcf'}

diff --git a/_tools/recipe_cards.py b/_tools/recipe_cards.py
@@ -31,17 +31,11 @@ def card(r, out):
     base = hex2rgb(r.get("colour", "#666640"))
     im = Image.new("RGB", (W, H), CREAM)
     d = ImageDraw.Draw(im)
-    # bowl: plate rim + food + garnish
-    cx, cy, R = 930, 560, 300
-    d.ellipse((cx - R - 30, cy - R - 30, cx + R + 30, cy + R + 30), fill=(255, 255, 255))
-    d.ellipse((cx - R, cy - R, cx + R, cy + R), fill=mix(base, (255, 255, 255), .15))
-    d.ellipse((cx - R + 40, cy - R + 40, cx + R - 40, cy + R - 40), fill=base)
-    for (dx, dy, s) in [(-90, -60, 26), (60, -110, 20), (110, 40, 24), (-30, 90, 22), (-150, 50, 18), (20, 0, 16)]:
-        d.ellipse((cx + dx - s, cy + dy - s, cx + dx + s, cy + dy + s), fill=(102, 140, 60))
-    d.ellipse((cx + 150 - 30, cy - 160 - 30, cx + 150 + 30, cy - 160 + 30), fill=mix(base, (255, 255, 255), .55))
+    # no food drawing: a plain title card until a real photo of the dish exists
+    d.rectangle((W - 260, 0, W, H), fill=base)
     # text block
     d.text((70, 90), r.get("cat", "Recipe").upper(), font=font("Medium", 30), fill=(102, 102, 64))
-    title = textwrap.fill(r["title"], 13)
+    title = textwrap.fill(r["title"], 22)
     d.multiline_text((70, 150), title, font=font("SemiBold", 60), fill=(20, 20, 20), spacing=8)
     d.text((70, H - 150), f'{r["prep"] + r["cook"]} min  ·  serves {r["servings"]}', font=font("Regular", 34), fill=(70, 70, 70))
     d.text((70, H - 95), "nurturedbyaanchal.com", font=font("Medium", 30), fill=(95, 122, 139))
